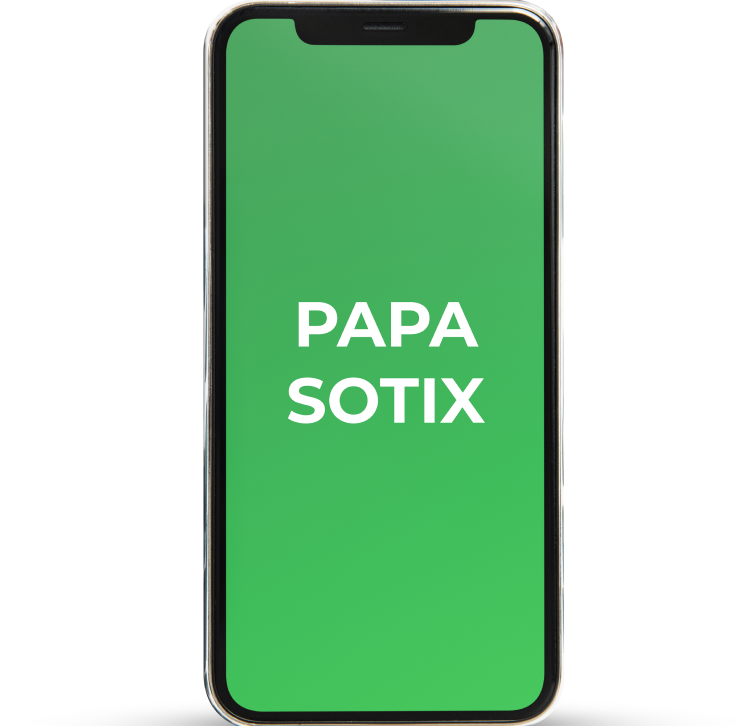
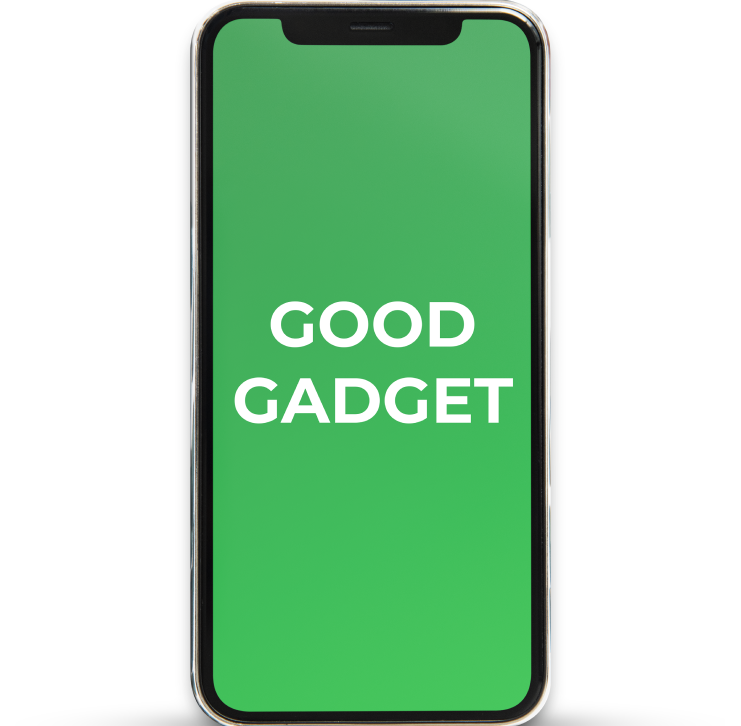
fix layout

Changed region(s): [[0.2483, 0.0, 0.776, 1.0], [0.3414, 0.3939, 0.6518, 0.4848], [0.3725, 0.0, 0.4035, 0.0606]]

diff --git a/styles/presentation-section.css b/styles/presentation-section.css
@@ -10,6 +10,7 @@
 }
 
 .presentation-section__logo {
+    font-size: 60px;
     padding-top: 50px;
     background: linear-gradient(94.44deg, #2EC046 31.65%, #259136 70.92%);
     -webkit-background-clip: text;

diff --git a/styles/section.css b/styles/section.css
@@ -9,6 +9,7 @@
     line-height: 90px;
     margin-bottom: 0;
     text-transform: capitalize;
+    z-index: 1000;
 }
 
 .section-title_green {
